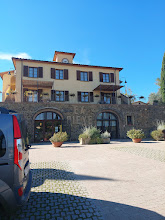
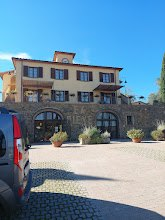
Osteria
Aggiunto osteria

diff --git a/src/main.jsx b/src/main.jsx
@@ -348,6 +348,24 @@ const placesToEat = [
     note: 'Osteria intima e molto apprezzata per la cucina casalinga toscana, i piatti della tradizione e l’atmosfera familiare.',
     mapsUrl: 'https://www.google.com/maps/search/?api=1&query=Osteria%20in%20Cantina%20Via%20XX%20Settembre%2010%20Riparbella',
     website: 'https://www.tripadvisor.it/Restaurant_Review-g652041-d2272107-Reviews-Osteria_In_Cantina-Riparbella_Province_of_Pisa_Tuscany.html'
+  },
+  {
+    name: 'Osteria La Pieve Vecchia',
+    type: 'Osteria / Cucina toscana',
+    typeEn: 'Osteria / Tuscan cuisine',
+    bestFor: 'Tradizione toscana e cucina stagionale',
+    bestForEn: 'Tuscan tradition and seasonal cuisine',
+    image: '/images/osteria-la-pieve-vecchia-esterno.jpg',
+    gallery: [
+      '/images/osteria-la-pieve-vecchia-pappardelle.jpg',
+      '/images/osteria-la-pieve-vecchia-antipasto.jpg'
+    ],
+    address: 'Località La Pieve Vecchia, 12, 56046 Riparbella PI',
+    phone: '+390586699103',
+    note: 'In un ambiente piacevole ed elegante, propone cucina toscana ispirata alle stagioni e ai prodotti del territorio, con qualità, innovazione e un tocco di tradizione.',
+    noteEn: 'In a pleasant and elegant setting, it offers Tuscan cuisine inspired by the seasons and local produce, combining quality, innovation and a touch of tradition.',
+    mapsUrl: 'https://www.google.com/maps/search/?api=1&query=Osteria%20La%20Pieve%20Vecchia%20Localit%C3%A0%20La%20Pieve%20Vecchia%2012%20Riparbella',
+    website: 'https://www.lapievevecchiarelais.com/it/ristorante/'
   }
 ];
 
@@ -1251,7 +1269,7 @@ function App() {
           <p>{t.supportText}</p>
         </div>
         <p>{t.rightsText}</p>
-        <p><strong>{t.versionLabel} — 1.44.15.1</strong></p>
+        <p><strong>{t.versionLabel} — 1.44.16</strong></p>
       </footer>
     </div>
   );
